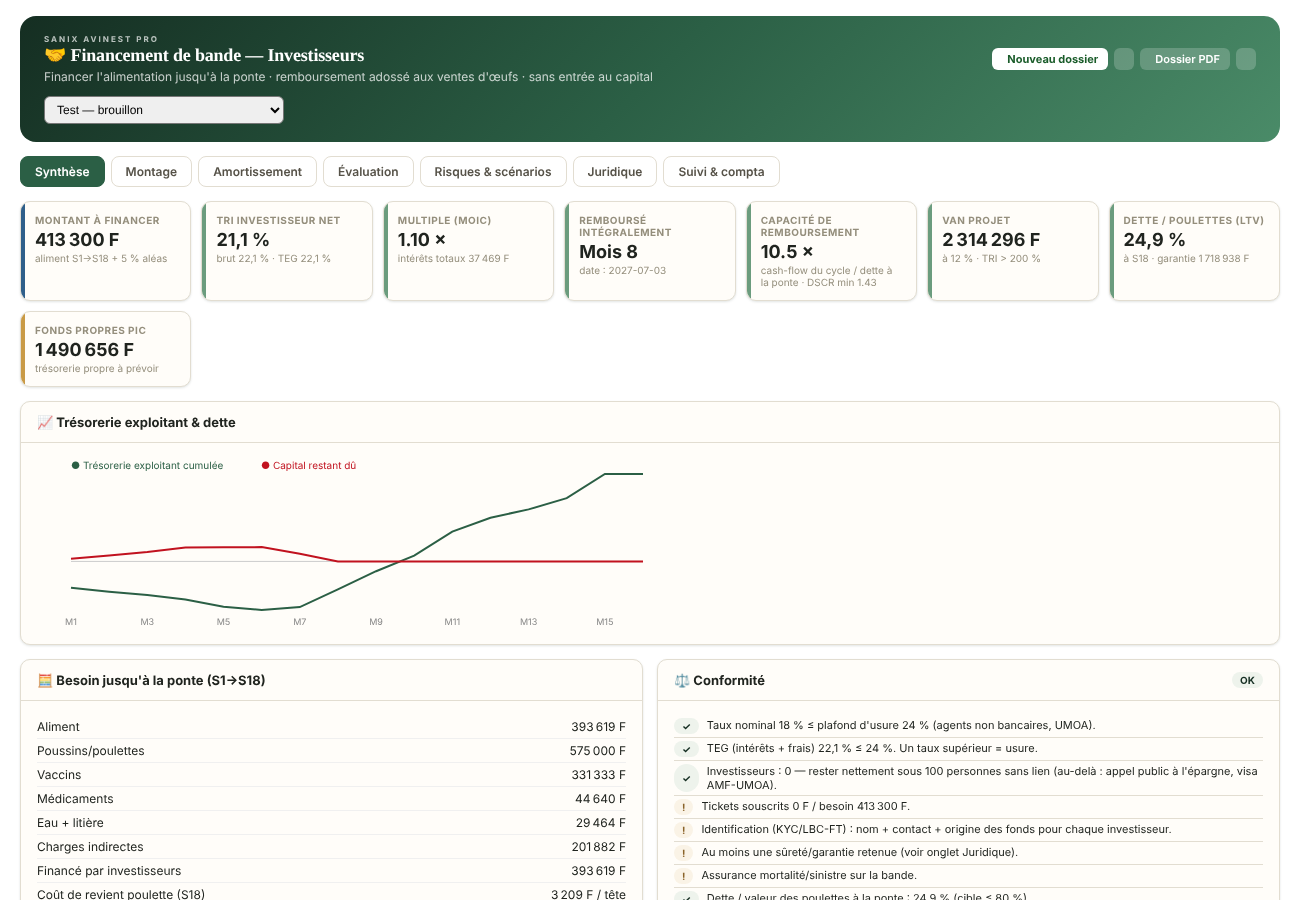
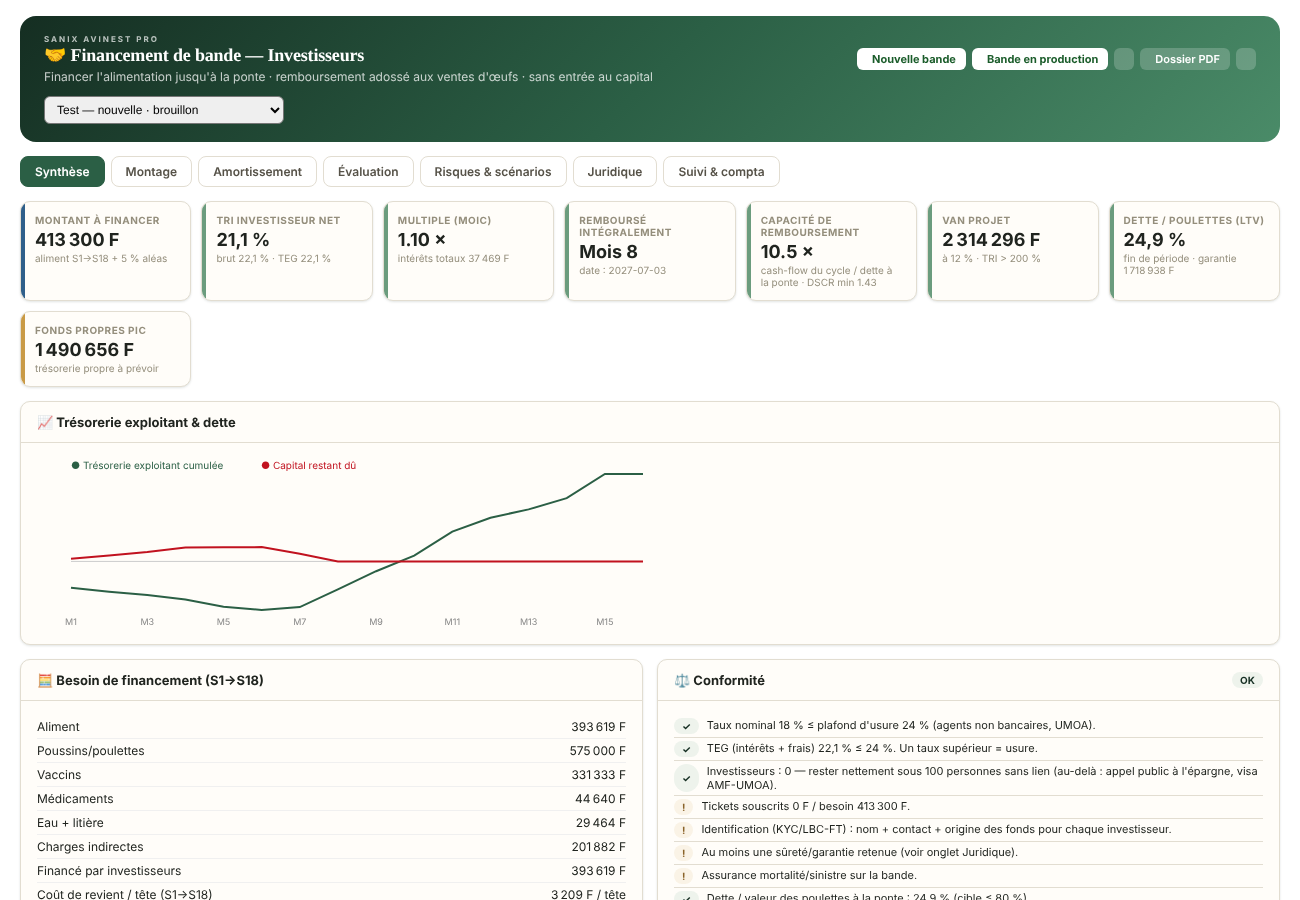
feat(finbande): financement d'une bande en production + poulet de chair (#11)
* feat(finbande): module Financement de bande par investisseurs (amortissement, évaluation, risques, juridique, compta SYSCOHADA) + besoin de financement dans la Simulation

Claude-Session: https://claude.ai/code/session_01XGyegJwan1hozCysUqiur2

* fix(finbande): collision de nom finTab avec le module Finance (onglets inopérants)

Claude-Session: https://claude.ai/code/session_01XGyegJwan1hozCysUqiur2

* feat(simu): poulette 1150 F et casse 1,5 % (calibrage ferme-jolan)

Claude-Session: https://claude.ai/code/session_01XGyegJwan1hozCysUqiur2

* feat(finance): répartition persistée des ventes sans lot par lot pondeuse (prorata œufs sur 10 j avant livraison), annulable

Claude-Session: https://claude.ai/code/session_01XGyegJwan1hozCysUqiur2

* feat(finbande): financement d'une bande en production (lot réel) + type chair

Portée nouvelle bande / bande en production, pondeuses ou poulet de chair.
Bande en production : projection recalée sur le lot réel (âge, effectif vivant,
ponte et consommation sur 30 j). Noms de dossiers numérotés.

Claude-Session: https://claude.ai/code/session_01XGyegJwan1hozCysUqiur2

---------

diff --git a/index.html b/index.html
@@ -24597,7 +24597,7 @@ const FIN_SEUIL_APE = 100;           // APE : > 100 personnes sans lien juridiqu
 
 const FIN_DEFAULTS = {
   nom:'Financement bande pondeuses', lotId:null, statut:'brouillon',
-  dateDebut:'', semPonte:18, inclPoussin:false, inclVacc:false, inclMed:false, inclEau:false,
+  portee:'nouvelle', typeLot:'layer', reel:null, dateDebut:'', semPonte:18, inclPoussin:false, inclVacc:false, inclMed:false, inclEau:false,
   contingence:5, fraisDossierPct:1, montantManuel:0,
   taux:18, mode:'ponte', sweepPct:70, differeMois:6, dureeRemb:8, interetDiffere:'capitalise', tirage:'progressif',
   tauxActu:12, delaiEncaiss:1, courbe:'lisse', prixPoulette:3500, retenuePct:18,
@@ -24678,20 +24678,35 @@ function finBesoin(p, f){
 function finRun(f, m){
   m=m||{};
   f=Object.assign({},FIN_DEFAULTS,f);
-  var p=Object.assign({},SIMU_DEFAULTS,f.simu||{},{typeLot:'layer'});
+  var typeLot=f.typeLot==='broiler'?'broiler':'layer';
+  var p0=Object.assign({},SIMU_DEFAULTS,f.simu||{},{typeLot:typeLot}), p=Object.assign({},p0);
   if(m.oeuf) p.prixOeufUnit*=m.oeuf;
   if(m.ponte) p.tauxPonteMoy=Math.min(98,p.tauxPonteMoy*m.ponte);
   if(m.alim){ p.coutAlimentD*=m.alim; p.coutAlimentC*=m.alim; p.coutAlimentP*=m.alim; }
   if(m.mort) p.tauxMortalite=Math.min(60,p.tauxMortalite*m.mort);
-  var wk=finWeekly(p,f.courbe), W=wk.W, lag=Math.max(0,f.delaiEncaiss|0), diff=Math.max(0,f.differeMois|0), N=Math.max(1,f.dureeRemb|0);
+  var wk=finWeekly(p,f.courbe), W=wk.W, lag=Math.max(0,f.delaiEncaiss|0), diff=Math.max(0,f.differeMois|0), N=Math.max(1,f.dureeRemb|0), warn=[];
+  if(f.portee==='production' && f.reel){
+    // Bande en production : on repart des semaines restantes, calées sur le lot réel (effectif vivant, ponte et consommation constatées).
+    // Calibrage mesuré sur les paramètres de base (sans stress) puis appliqué à la projection éventuellement stressée.
+    var R=f.reel, base0=finWeekly(p0,f.courbe).W, maxAge=W.length-1, age=Math.max(1,Math.min(maxAge,Math.round(R.age||1)));
+    if((R.age||0)>maxAge) warn.push('Lot au-delà du cycle modélisé (S'+W.length+') : projection limitée à la fin de cycle.');
+    var w0=base0[age-1], vSim=w0.vivants||1, r=R.vivants>0?R.vivants/vSim:1;
+    var mr=w0.vivants>0?w0.oeufs/(w0.vivants*7):0, kP=(typeLot==='layer'&&R.tauxPonte>0&&mr>0)?finClamp(R.tauxPonte/100/mr,0.5,1.3):1;
+    var ph0=simuGetPhases(typeLot).filter(function(x){return x.id===w0.ph;})[0], kA=(R.gPouleJour>0&&ph0&&ph0.feedGPD>0)?finClamp(R.gPouleJour/ph0.feedGPD,0.7,1.5):1;
+    if(R.tauxBrut>100) warn.push('Taux de ponte saisi > 100 % sur le lot (erreur de saisie probable) : plafonné.');
+    if(!(R.vivants>0)) warn.push('Effectif vivant du lot nul : actualisez les données du lot.');
+    W=W.slice(age).map(function(x){ return Object.assign({},x,{wr:x.w-age,vivants:x.vivants*r,alim:x.alim*r*kA,poussin:0,vacc:x.vacc*r,med:x.med*r,eau:x.eau*r,lit:0,oeufs:x.oeufs*r*kP,recOeufs:x.recOeufs*r*kP,recRef:x.recRef*r}); });
+    if(!W.length) W=[Object.assign({},base0[maxAge],{wr:1})];
+  } else W=W.map(function(x){ return Object.assign({},x,{wr:x.w}); });
   var T=Math.max(finMonth(W.length)+lag, diff+N)+1, t, i;
   var rev=[],opex=[],fin=[],tir=[];
   for(i=0;i<=T+1;i++){ rev[i]=0; opex[i]=0; fin[i]=0; tir[i]=0; }
-  var oeufsTot=0;
+  var oeufsTot=0, det={alim:0,poussin:0,vacc:0,med:0,eau:0,indir:0}, coutFut=0;
   W.forEach(function(x){
-    var mi=finMonth(x.w);
+    var mi=finMonth(x.wr); coutFut+=x.alim+x.poussin+x.vacc+x.med+x.eau+x.lit+x.indir;
     opex[mi]+=x.alim+x.poussin+x.vacc+x.med+x.eau+x.lit+x.indir;
-    if(x.w<=f.semPonte) fin[mi]+=x.alim+(f.inclPoussin?x.poussin:0)+(f.inclVacc?x.vacc:0)+(f.inclMed?x.med:0)+(f.inclEau?x.eau+x.lit:0);
+    if(x.wr<=f.semPonte){ det.alim+=x.alim; det.poussin+=x.poussin; det.vacc+=x.vacc; det.med+=x.med; det.eau+=x.eau+x.lit; det.indir+=x.indir; }
+    if(x.wr<=f.semPonte) fin[mi]+=x.alim+(f.inclPoussin?x.poussin:0)+(f.inclVacc?x.vacc:0)+(f.inclMed?x.med:0)+(f.inclEau?x.eau+x.lit:0);
     rev[mi+lag]+=x.recOeufs+x.recRef; oeufsTot+=x.oeufs;
   });
   var base=fin.reduce(function(a,b){return a+b;},0);
@@ -24751,14 +24766,14 @@ function finRun(f, m){
   var fullMonth=null; rows.forEach(function(r){ if(!r.diff&&r.close===0&&r.open+r.tir>0&&fullMonth===null) fullMonth=r.t; });
   var mP=finMonth(f.semPonte), debtAtPonte=rows[Math.min(mP,rows.length)-1].close;
   var wP=W[Math.min(f.semPonte,W.length)-1], valPoulettes=wP.vivants*f.prixPoulette;
-  var coutPre=0; W.forEach(function(x){ if(x.w<=f.semPonte) coutPre+=x.alim+x.poussin+x.vacc+x.med+x.eau+x.lit+x.indir; });
+  var coutPre=0; W.forEach(function(x){ if(x.wr<=f.semPonte) coutPre+=x.alim+x.poussin+x.vacc+x.med+x.eau+x.lit+x.indir; });
   return {p:p, W:W, res:wk.res, rows:rows, T:T, base:base, montant:montant, frais:frais, tirTotal:out, intTot:intTot,
     npv:npv, irrProj:finAnn(irrP), payback:payback, pi:pvOut>0?pvIn/pvOut:null, peakInvest:-minCu,
     irrInvB:finAnn(irrB), irrInvN:finAnn(irrN), moic:out>0?inN/out:null, moicB:out>0?inB/out:null, teg:finAnn(tegM),
     dscrMin:dscrMin, dscrAvg:dscrAvg, cov:cov, capac:capac, dStart:dStart, fullMonth:fullMonth, soldeFin:soldeFin, minCash:minCash, cashFin:cum,
     ltv:valPoulettes>0?debtAtPonte/valPoulettes:null, debtAtPonte:debtAtPonte, valPoulettes:valPoulettes,
-    coutPoulette:wP.vivants>0?coutPre/wP.vivants:0, oeufsTot:oeufsTot, coutOeuf:oeufsTot>0?wk.res.totalCout/oeufsTot:0,
-    margeOeuf:oeufsTot>0?wk.res.margeNette/oeufsTot:0, ivN:ivN, ivB:ivB};
+    coutPoulette:wP.vivants>0?coutPre/wP.vivants:0, oeufsTot:oeufsTot, coutOeuf:oeufsTot>0?(f.portee==='production'?coutFut:wk.res.totalCout)/oeufsTot:0,
+    margeOeuf:oeufsTot>0?p.prixOeufUnit*(1-(p.tauxCasse||0)/100)-(f.portee==='production'?coutFut:wk.res.totalCout)/oeufsTot:0, det:det, warn:warn, typeLot:typeLot, ivN:ivN, ivB:ivB};
 }
 
 const FIN_SCEN = {
@@ -24818,7 +24833,7 @@ function finContrat(f, E, cfg){
     degressif:'par échéances mensuelles à capital constant',annuite:'par annuités mensuelles constantes',infine:'in fine, intérêts payés mensuellement'}[f.mode];
   return [
     ['Parties','Entre '+ex+' ('+fj+', RCCM '+rc+'), ci-après « l\'Exploitant », et '+inv+', ci-après « le(s) Prêteur(s) », il est convenu ce qui suit.'],
-    ['Objet','Financement partiel de la bande « '+(f.nom||'')+' » : prise en charge de l\'alimentation des volailles du placement jusqu\'à la semaine S'+f.semPonte+' (démarrage de la ponte). Aucune entrée au capital ; aucun droit de vote ni de partage de résultat hors rémunération prévue.'],
+    ['Objet',finObjet(f,E)+' Aucune entrée au capital ; aucun droit de vote ni de partage de résultat hors rémunération prévue.'],
     ['Montant & mise à disposition','Montant maximal : '+finM(E.montant)+', mis à disposition '+(f.tirage==='unique'?'en une fois à la signature':'par tirages mensuels correspondant aux besoins en aliment')+'. Frais de dossier : '+f.fraisDossierPct+' %.'],
     ['Affectation des fonds','Exclusivement à l\'achat d\'aliments pour la bande financée. Justificatifs (factures, bons de réception) communiqués sur demande ; le suivi est consultable dans l\'ERP.'],
     ['Durée','Différé de '+f.differeMois+' mois (intérêts '+(f.interetDiffere==='paye'?'payés':'capitalisés')+'), puis remboursement sur '+f.dureeRemb+' mois maximum.'],
@@ -24840,7 +24855,7 @@ async function finLoad(){
   var list=await getAll(S.FINBANDE); list.sort(function(a,b){return (b.id||0)-(a.id||0);});
   var B=window._fb||(window._fb={id:null,tab:'synthese'});
   var rec=list.find(function(x){return x.id===B.id;})||list[0]||null;
-  B.id=rec?rec.id:null; B.rec=rec; B.list=list;
+  B.id=rec?rec.id:null; B.rec=rec; B.list=list; B.lots=await getAll(S.FLOCKS);
   return rec;
 }
 async function finSave(rec){ await updRec(S.FINBANDE,rec.id,rec); }
@@ -24851,13 +24866,52 @@ window.finSetG=async function(k,v){ var r=window._fb.rec; r.garanties=r.garantie
 window.finSetSimu=async function(k,v){ var r=window._fb.rec; r.simu=r.simu||{}; r.simu[k]=parseFloat(v)||0; await finSave(r); finRefresh(); };
 window.fbTab=function(t){ window._fb.tab=t; finRefresh(); };
 window.finPick=function(id){ window._fb.id=parseInt(id)||null; window._fb.mc=null; finRefresh(); };
-window.finNew=async function(){
+// Valeurs usuelles selon portée + type (semPonte = dernière semaine financée, relative au départ du dossier)
+function finDefauts(portee,type){
+  if(portee==='production') return {semPonte:8,differeMois:0,dureeRemb:8,mode:'ponte',delaiEncaiss:1};
+  return type==='broiler'?{semPonte:6,differeMois:2,dureeRemb:2,mode:'infine',delaiEncaiss:1,prixPoulette:3000}:{semPonte:18,differeMois:6,dureeRemb:8,mode:'ponte',delaiEncaiss:1,prixPoulette:3500};
+}
+window.finNew=async function(portee){
+  portee=portee==='production'?'production':'nouvelle';
   var sp={}; try{ sp=JSON.parse(localStorage.getItem('avico_simu_params')||'{}'); }catch(e){}
-  var simu=Object.assign({},SIMU_DEFAULTS,sp,{typeLot:'layer'});
-  var rec=Object.assign({},JSON.parse(JSON.stringify(FIN_DEFAULTS)),{dateDebut:new Date().toISOString().slice(0,10),simu:simu,ts:Date.now()});
+  var type=sp.typeLot==='broiler'?'broiler':'layer';
+  var simu=Object.assign({},SIMU_DEFAULTS,sp,{typeLot:type});
+  var d=new Date().toISOString().slice(0,10), n=((window._fb&&window._fb.list)||[]).length+1;
+  var rec=Object.assign({},JSON.parse(JSON.stringify(FIN_DEFAULTS)),finDefauts(portee,type),{portee:portee,typeLot:type,dateDebut:d,simu:simu,ts:Date.now(),
+    nom:(portee==='production'?'Bande en production':'Nouvelle bande')+' n°'+n+' — '+d});
   var nom=prompt('Nom du dossier de financement :',rec.nom); if(nom===null) return; rec.nom=nom||rec.nom;
-  rec.id=await addRec(S.FINBANDE,rec); window._fb={id:rec.id,tab:'montage'}; finRefresh(); toast('✅ Dossier créé depuis la simulation');
+  rec.id=await addRec(S.FINBANDE,rec); window._fb={id:rec.id,tab:'montage'}; finRefresh(); toast('✅ Dossier créé'+(portee==='production'?' — choisissez le lot réel':' depuis la simulation'));
 };
+window.finSetPortee=async function(v){ var r=window._fb.rec; r.portee=v; Object.assign(r,finDefauts(v,r.typeLot)); if(v==='nouvelle') r.reel=null; await finSave(r); finRefresh(); };
+window.finSetType=async function(v){ var r=window._fb.rec; r.typeLot=v; r.simu=Object.assign({},r.simu,{typeLot:v}); r.lotId=null; r.reel=null; Object.assign(r,finDefauts(r.portee,v)); await finSave(r); finRefresh(); };
+
+// Lecture du lot réel : âge, effectif vivant, taux de ponte et consommation sur 30 jours
+async function finLireLot(lotId){
+  var lots=await getAll(S.FLOCKS), lot=lots.find(function(l){return l.id===lotId;}); if(!lot) return null;
+  var all=await Promise.all([getAll(S.MORTALITE),getAll(S.REFORME),getAll(S.VENTE_VIVANT),getAll(S.SLAUGHTER),getAll(S.EGG_PROD),getAll(S.FEEDING)]);
+  var mine=function(a){return a.filter(function(x){return x.flockId===lotId;});}, sum=function(a,k){return a.reduce(function(t,x){return t+(x[k]||0);},0);};
+  var morts=sum(mine(all[0]),'nbMorts'), sorties=sum(mine(all[1]),'nbTetes')+sum(mine(all[2]),'nbTetes')+sum(mine(all[3]).filter(function(x){return !x.viaReforme;}),'nbAnimaux');
+  var vivants=Math.max(0,(lot.initialStock||0)-morts-sorties);
+  var age=lot.startDate?Math.max(1,Math.floor((Date.now()-new Date(lot.startDate).getTime())/604800000)+1):1;
+  var since=new Date(Date.now()-30*864e5).toISOString().slice(0,10);
+  var e30=mine(all[4]).filter(function(e){return (e.date||'')>=since;}), jE={}; e30.forEach(function(e){jE[e.date]=1;});
+  var jours=Object.keys(jE).length, tp=(jours&&vivants)?sum(e30,'eggCount')/jours/vivants*100:0;
+  var f30=mine(all[5]).filter(function(x){return (x.date||'')>=since;}), jF={}; f30.forEach(function(x){jF[x.date]=1;});
+  var jf=Object.keys(jF).length, g=(jf&&vivants)?sum(f30,'quantityKg')*1000/jf/vivants:0;
+  return {lotNom:lot.nom,age:age,vivants:vivants,initial:lot.initialStock||0,morts:morts,tauxBrut:Math.round(tp*10)/10,tauxPonte:Math.min(98,Math.round(tp*10)/10),gPouleJour:Math.round(g),ts:Date.now()};
+}
+window.finSetLot=async function(id){
+  var r=window._fb.rec; r.lotId=id?parseInt(id):null; r.reel=(r.lotId&&r.portee==='production')?await finLireLot(r.lotId):null;
+  await finSave(r); finRefresh();
+};
+window.finActualiserLot=async function(){ var r=window._fb.rec; if(!r.lotId) return; r.reel=await finLireLot(r.lotId); await finSave(r); finRefresh(); toast('Données du lot actualisées'); };
+function finPer(f){ return f.portee==='production'?'prochaines '+f.semPonte+' sem.':'S1→S'+f.semPonte; }
+function finObjet(f,E){
+  var q=f.typeLot==='broiler'?'poulets de chair':'pondeuses';
+  return f.portee==='production'
+    ?'Financement partiel de la bande « '+(f.nom||'')+' » en production ('+ff(E.p.nbBetes)+' '+q+' à l\'origine) : prise en charge de l\'alimentation sur les '+f.semPonte+' prochaines semaines.'
+    :'Financement partiel de la bande « '+(f.nom||'')+' » ('+q+') : prise en charge de l\'alimentation du placement jusqu\'à la semaine S'+f.semPonte+(f.typeLot==='broiler'?' (abattage).':' (démarrage de la ponte).');
+}
 window.finFromSimu=async function(){
   if(!window._fb) window._fb={id:null,tab:'synthese'};
   await finNew();
@@ -24943,41 +24997,60 @@ function finChart(E){
 
 function finTabSynthese(f,E){
   var okAll=E.soldeFin<=1&&(E.dscrMin==null||E.dscrMin>=1), conf=finConformite(f,E), nbKo=conf.filter(function(c){return c.s==='ko';}).length;
-  var b=finBesoin(E.p,f);
-  return '<div style="display:grid;grid-template-columns:repeat(auto-fit,minmax(150px,1fr));gap:10px;margin-bottom:14px">'
-    +finKpi('Montant à financer',finM(E.montant),'aliment S1→S'+f.semPonte+' + '+f.contingence+' % aléas','kpi-b')
+  var b={detail:E.det};
+  return (E.warn||[]).map(function(w){return '<div style="background:#fef3c7;border:1px solid #fcd34d;border-radius:8px;padding:7px 12px;font-size:12px;color:#92400e;margin-bottom:8px">⚠ '+esc(w)+'</div>';}).join('')
+    +'<div style="display:grid;grid-template-columns:repeat(auto-fit,minmax(150px,1fr));gap:10px;margin-bottom:14px">'
+    +finKpi('Montant à financer',finM(E.montant),'aliment '+finPer(f)+' + '+f.contingence+' % aléas','kpi-b')
     +finKpi('TRI investisseur net',finPc(E.irrInvN),'brut '+finPc(E.irrInvB)+' · TEG '+finPc(E.teg),(E.irrInvN||0)>0?'kpi-g':'kpi-r')
     +finKpi('Multiple (MOIC)',E.moic==null?'—':E.moic.toFixed(2)+' ×','intérêts totaux '+finM(E.intTot),'kpi-g')
     +finKpi('Remboursé intégralement',E.fullMonth?'Mois '+E.fullMonth:'Non',E.soldeFin>1?'solde impayé '+finM(E.soldeFin):'date : '+finAddMonths(f.dateDebut,E.fullMonth||0),okAll?'kpi-g':'kpi-r')
     +finKpi('Capacité de remboursement',E.capac==null?'—':E.capac.toFixed(1)+' ×','cash-flow du cycle / dette à la ponte · DSCR min '+(E.dscrMin==null?'—':E.dscrMin.toFixed(2)),(E.capac==null||E.capac>=1.5)?'kpi-g':'kpi-a')
     +finKpi('VAN projet',finM(E.npv),'à '+f.tauxActu+' % · TRI '+finPc(E.irrProj),E.npv>=0?'kpi-g':'kpi-r')
-    +finKpi('Dette / poulettes (LTV)',finPc(E.ltv),'à S'+f.semPonte+' · garantie '+finM(E.valPoulettes),(E.ltv||0)<=0.8?'kpi-g':'kpi-a')
+    +finKpi('Dette / poulettes (LTV)',finPc(E.ltv),'fin de période · garantie '+finM(E.valPoulettes),(E.ltv||0)<=0.8?'kpi-g':'kpi-a')
     +finKpi('Fonds propres pic',finM(-E.minCash),'trésorerie propre à prévoir','kpi-a')
     +'</div>'
     +'<div class="card" style="margin-bottom:14px"><div class="card-hd">📈 Trésorerie exploitant & dette</div><div class="card-bd">'+finChart(E)+'</div></div>'
-    +'<div style="display:grid;grid-template-columns:1fr 1fr;gap:14px"><div class="card"><div class="card-hd">🧮 Besoin jusqu\'à la ponte (S1→S'+f.semPonte+')</div><div class="card-bd" style="font-size:12px">'
+    +'<div style="display:grid;grid-template-columns:1fr 1fr;gap:14px"><div class="card"><div class="card-hd">🧮 Besoin de financement ('+finPer(f)+')</div><div class="card-bd" style="font-size:12px">'
     +[['Aliment',b.detail.alim],['Poussins/poulettes',b.detail.poussin],['Vaccins',b.detail.vacc],['Médicaments',b.detail.med],['Eau + litière',b.detail.eau],['Charges indirectes',b.detail.indir]].map(function(x){return '<div class="simu-detail-line"><span>'+x[0]+'</span><span>'+finM(x[1])+'</span></div>';}).join('')
-    +'<div class="simu-detail-line"><span>Financé par investisseurs</span><span>'+finM(E.base)+'</span></div><div class="simu-detail-line"><span>Coût de revient poulette (S'+f.semPonte+')</span><span>'+finM(E.coutPoulette)+' / tête</span></div></div></div>'
+    +'<div class="simu-detail-line"><span>Financé par investisseurs</span><span>'+finM(E.base)+'</span></div><div class="simu-detail-line"><span>Coût de revient / tête ('+finPer(f)+')</span><span>'+finM(E.coutPoulette)+' / tête</span></div></div></div>'
     +'<div class="card"><div class="card-hd">⚖ Conformité '+(nbKo?'<span class="badge b-r">'+nbKo+' bloquant(s)</span>':'<span class="badge b-g">OK</span>')+'</div><div class="card-bd" style="font-size:11px">'
     +conf.map(function(c){return '<div style="display:flex;gap:8px;padding:3px 0;border-bottom:1px solid var(--border)">'+finBadge(c.s)+'<span>'+c.t+'</span></div>';}).join('')+'</div></div></div>';
 }
 
+function finBlocLot(f){
+  if(f.portee!=='production') return '';
+  var lots=((window._fb&&window._fb.lots)||[]).filter(function(l){return (l.type==='layer')===(f.typeLot==='layer');}), R=f.reel;
+  return '<div class="card" style="margin-bottom:14px;border:2px solid var(--g3)"><div class="card-hd"><span>🔗 Lot réel financé</span>'+(f.lotId?'<button class="btn btn-s btn-sm" onclick="finActualiserLot()"><i class="fas fa-rotate"></i> Actualiser depuis le lot</button>':'')+'</div><div class="card-bd">'
+    +'<select onchange="finSetLot(this.value)"><option value="">— Choisir le lot —</option>'+lots.map(function(l){return '<option value="'+l.id+'"'+(l.id===f.lotId?' selected':'')+'>'+esc(l.nom)+'</option>';}).join('')+'</select>'
+    +(R?'<div style="display:grid;grid-template-columns:repeat(auto-fit,minmax(140px,1fr));gap:8px;margin-top:10px">'
+      +finKpi('Âge','S'+R.age,'lot « '+esc(R.lotNom)+' »')+finKpi('Effectif vivant',ff(R.vivants),'sur '+ff(R.initial)+' · morts '+ff(R.morts))
+      +(f.typeLot==='layer'?finKpi('Ponte réelle (30 j)',R.tauxBrut+' %',R.tauxBrut>100?'⚠ erreur de saisie':'taux utilisé : '+R.tauxPonte+' %',R.tauxBrut>100?'kpi-r':'kpi-g'):'')
+      +finKpi('Aliment réel',R.gPouleJour+' g/j','par sujet (30 j)')+'</div><div style="font-size:11px;color:var(--text3);margin-top:6px">La projection repart de ces valeurs réelles (effectif, ponte, consommation). Actualisé le '+new Date(R.ts).toLocaleString('fr-FR')+'.</div>'
+      :'<p style="font-size:12px;color:var(--text3);margin-top:8px">Sélectionnez le lot : le dossier est alors calé sur ses données réelles. Sans lot, la projection repart du début de cycle.</p>')
+    +'</div></div>';
+}
 function finTabMontage(f,E){
   var s=f.simu||{}, inv=f.investisseurs||[], tot=inv.reduce(function(a,i){return a+(+i.montant||0);},0);
   return '<div class="card" style="margin-bottom:14px"><div class="card-hd">🏷 Dossier</div><div class="simu-params-body">'
+    +finSel('Portée','portee',f.portee,[['nouvelle','Nouvelle bande'],['production','Bande déjà en production']]).replace("finSet('portee',this.value,0)","finSetPortee(this.value)")
+    +finSel('Type','typeLot',f.typeLot,[['layer','Pondeuses'],['broiler','Poulet de chair']]).replace("finSet('typeLot',this.value,0)","finSetType(this.value)")
     +'<div class="fg"><div class="sbl">Nom</div><input value="'+esc(f.nom)+'" onchange="finSet(\'nom\',this.value,0)"></div>'
     +'<div class="fg"><div class="sbl">Date de placement</div><input type="date" value="'+f.dateDebut+'" onchange="finSet(\'dateDebut\',this.value,0)"></div>'
     +finSel('Statut','statut',f.statut,[['brouillon','Brouillon'],['collecte','Collecte en cours'],['en_cours','En cours'],['solde','Soldé']])
     +'</div></div>'
+    +finBlocLot(f)
     +'<div class="card" style="margin-bottom:14px"><div class="card-hd">🐔 Hypothèses d\'exploitation (issues de la Simulation) <button class="btn btn-s btn-sm" onclick="finResync()"><i class="fas fa-rotate"></i> Resynchroniser</button></div><div class="simu-params-body">'
-    +finSimIn('Effectif logé','nbBetes',s.nbBetes)+finSimIn('Taux ponte pic (%)','tauxPonteMoy',s.tauxPonteMoy,0.5)+finSimIn('Mortalité cycle (%)','tauxMortalite',s.tauxMortalite,0.1)
-    +finSimIn('Prix œuf (F)','prixOeufUnit',s.prixOeufUnit)+finSimIn('Casse (%)','tauxCasse',s.tauxCasse==null?1.5:s.tauxCasse,0.1)+finSimIn('Poulette J0 (F)','coutPoussineLayer',s.coutPoussineLayer)
-    +finSimIn('Aliment démarrage (F/kg)','coutAlimentD',s.coutAlimentD)+finSimIn('Aliment croissance (F/kg)','coutAlimentC',s.coutAlimentC)+finSimIn('Aliment ponte (F/kg)','coutAlimentP',s.coutAlimentP)
-    +finSel('Courbe de ponte','courbe',f.courbe,[['lisse','Réaliste (lissée)'],['simu','Identique Simulation (paliers)']])
-    +finIn('Délai encaissement (mois)','delaiEncaiss',f.delaiEncaiss,1)+finIn('Valeur poulette prête à pondre (F)','prixPoulette',f.prixPoulette)
+    +finSimIn('Effectif logé','nbBetes',s.nbBetes)+finSimIn('Mortalité cycle (%)','tauxMortalite',s.tauxMortalite,0.1)
+    +(f.typeLot==='broiler'
+      ?finSimIn('Poussin chair (F)','coutPoussin',s.coutPoussin)+finSimIn('Poids vif abattage (kg)','poidsMoyenVif',s.poidsMoyenVif,0.05)+finSimIn('Rendement carcasse (%)','rendCarcasse',s.rendCarcasse,0.5)+finSimIn('Prix carcasse (F/kg)','prixCarcasseKg',s.prixCarcasseKg)
+        +finSimIn('Aliment démarrage (F/kg)','coutAlimentD',s.coutAlimentD)+finSimIn('Aliment croissance (F/kg)','coutAlimentC',s.coutAlimentC)
+      :finSimIn('Taux ponte pic (%)','tauxPonteMoy',s.tauxPonteMoy,0.5)+finSimIn('Prix œuf (F)','prixOeufUnit',s.prixOeufUnit)+finSimIn('Casse (%)','tauxCasse',s.tauxCasse==null?1.5:s.tauxCasse,0.1)+finSimIn('Poulette J0 (F)','coutPoussineLayer',s.coutPoussineLayer)
+        +finSimIn('Aliment démarrage (F/kg)','coutAlimentD',s.coutAlimentD)+finSimIn('Aliment croissance (F/kg)','coutAlimentC',s.coutAlimentC)+finSimIn('Aliment ponte (F/kg)','coutAlimentP',s.coutAlimentP)
+        +finSel('Courbe de ponte','courbe',f.courbe,[['lisse','Réaliste (lissée)'],['simu','Identique Simulation (paliers)']]))
+    +finIn('Délai encaissement (mois)','delaiEncaiss',f.delaiEncaiss,1)+finIn('Valeur de marché du cheptel (F/tête)','prixPoulette',f.prixPoulette)
     +'</div></div>'
     +'<div class="card" style="margin-bottom:14px"><div class="card-hd">💰 Périmètre financé</div><div class="simu-params-body">'
-    +finIn('Financé jusqu\'à la semaine (S)','semPonte',f.semPonte,1)+finIn('Aléas / contingence (%)','contingence',f.contingence,0.5)+finIn('Frais de dossier (%)','fraisDossierPct',f.fraisDossierPct,0.1)
+    +finIn(f.portee==='production'?'Horizon financé (semaines à venir)':(f.typeLot==='broiler'?'Financé jusqu\'à la semaine (abattage)':'Financé jusqu\'à la semaine (début ponte)'),'semPonte',f.semPonte,1)+finIn('Aléas / contingence (%)','contingence',f.contingence,0.5)+finIn('Frais de dossier (%)','fraisDossierPct',f.fraisDossierPct,0.1)
     +finIn('Montant forcé (F, 0 = auto)','montantManuel',f.montantManuel)
     +'<div style="grid-column:1/-1;display:flex;gap:14px;flex-wrap:wrap">'+'<span style="font-size:11px;color:var(--text3)">Aliment toujours inclus. Optionnel :</span>'
     +finChk('Poulettes J0','inclPoussin',f.inclPoussin,'finSetBool')+finChk('Vaccins','inclVacc',f.inclVacc,'finSetBool')+finChk('Médicaments','inclMed',f.inclMed,'finSetBool')+finChk('Eau + litière','inclEau',f.inclEau,'finSetBool')+'</div>'
@@ -25025,8 +25098,8 @@ function finTabEvaluation(f,E){
     +row('Fonds propres / trésorerie pic',finM(-E.minCash))+row('Trésorerie finale après dette',finM(E.cashFin))
     +row('Capacité de remboursement',E.capac==null?'—':E.capac.toFixed(2)+' ×','CF du cycle / dette au démarrage')+row('DSCR minimum',E.dscrMin==null?'—':E.dscrMin.toFixed(2))+row('DSCR moyen',E.dscrAvg==null?'—':E.dscrAvg.toFixed(2))+row('Couverture globale service',E.cov==null?'—':E.cov.toFixed(2)+' ×')+'</tbody></table></div></div>'
     +'<div class="card"><div class="card-hd">🛡 Garantie</div><div class="card-bd"><table class="tbl"><tbody>'
-    +row('Poulettes à S'+f.semPonte,ff(E.p.nbBetes)+' → '+ff(E.W[Math.min(f.semPonte,E.W.length)-1].vivants)+' sujets')+row('Coût de revient poulette',finM(E.coutPoulette))
-    +row('Valeur marché retenue',finM(f.prixPoulette)+' / tête')+row('Valeur du cheptel',finM(E.valPoulettes))+row('Dette à S'+f.semPonte,finM(E.debtAtPonte))+row('LTV',finPc(E.ltv),'cible ≤ 80 %')+'</tbody></table></div></div></div>';
+    +row('Effectif en fin de période',ff(E.p.nbBetes)+' → '+ff(E.W[Math.min(f.semPonte,E.W.length)-1].vivants)+' sujets')+row('Coût de revient / tête',finM(E.coutPoulette))
+    +row('Valeur de marché retenue',finM(f.prixPoulette)+' / tête')+row('Valeur du cheptel',finM(E.valPoulettes))+row('Dette en fin de période',finM(E.debtAtPonte))+row('LTV',finPc(E.ltv),'cible ≤ 80 %')+'</tbody></table></div></div></div>';
 }
 
 function finTabRisques(f,E){
@@ -25092,8 +25165,8 @@ async function finTabSuivi(f,E){
       +finKpi('Enveloppe financée',finM(bud),'consommée '+finPc(bud>0?c/bud:0))+'</div></div>';
   }
   var today=new Date().toISOString().slice(0,10), act=E.rows.filter(function(r){return r.tir>0||r.service>0||r.intCap>0||(r.frais>0);});
-  return '<div class="card" style="margin-bottom:14px"><div class="card-hd">🔗 Lot lié</div><div class="card-bd"><select onchange="finSet(\'lotId\',this.value?parseInt(this.value):null,0)"><option value="">— Aucun —</option>'
-    +lots.filter(function(l){return l.type==='layer';}).map(function(l){return '<option value="'+l.id+'"'+(l.id===f.lotId?' selected':'')+'>'+esc(l.nom)+'</option>';}).join('')+'</select></div></div>'+real
+  return '<div class="card" style="margin-bottom:14px"><div class="card-hd">🔗 Lot lié</div><div class="card-bd"><select onchange="finSetLot(this.value)"><option value="">— Aucun —</option>'
+    +lots.filter(function(l){return (l.type==='layer')===(f.typeLot!=='broiler');}).map(function(l){return '<option value="'+l.id+'"'+(l.id===f.lotId?' selected':'')+'>'+esc(l.nom)+'</option>';}).join('')+'</select></div></div>'+real
     +'<div class="card"><div class="card-hd">📒 Écritures SYSCOHADA par échéance</div><div class="card-bd tbl-wrap"><table class="tbl" style="font-size:11px"><thead><tr><th>Mois</th><th>Date</th><th>Fonds reçus</th><th>Intérêts</th><th>Capital</th><th>Retenue</th><th>Statut</th><th></th></tr></thead><tbody>'
     +act.map(function(r){ var s=(f.suivi||{})['m'+r.t], fut=r.date>today;
       return '<tr><td>'+r.t+'</td><td>'+r.date+'</td><td>'+(r.tir?ff(r.tir):'—')+'</td><td>'+ff(r.intPaid+r.intCap)+'</td><td>'+(r.cap?ff(r.cap):'—')+'</td><td>'+(r.intPaid?ff(r.intPaid*f.retenuePct/100):'—')+'</td><td>'+(s?'<span class="badge b-g">'+esc(s.piece)+'</span>':fut?'<span class="badge b-gr">à venir</span>':'<span class="badge b-a">à comptabiliser</span>')+'</td><td>'
@@ -25110,7 +25183,7 @@ window.finImprimer=async function(){
     +'<h1>'+esc(cfg.nomExploitation||'Exploitation')+' — Note d\'information investisseur</h1><div>'+esc(f.nom)+' · '+today+' · NIF '+esc(cfg.nif||'—')+' · RCCM '+esc(cfg.rccm||'—')+'</div>'
     +'<p style="background:#faf3e6;padding:6px 10px;border-radius:6px">Document indicatif. Les projections reposent sur des hypothèses et ne garantissent aucun rendement. Tout investissement comporte un risque de perte en capital.</p>'
     +'<h2>1. Synthèse</h2><div class="k">'+kp.map(function(x){return '<div>'+x[0]+'<b>'+x[1]+'</b></div>';}).join('')+'</div>'
-    +'<h2>2. Objet & usage des fonds</h2><p>Financement de l\'alimentation de '+ff(E.p.nbBetes)+' pondeuses du placement à la semaine S'+f.semPonte+' (démarrage de la ponte). Remboursement à partir des ventes d\'œufs ('+ff(E.p.prixOeufUnit)+' F/œuf, ponte pic '+E.p.tauxPonteMoy+' %, mortalité '+E.p.tauxMortalite+' %).</p>'
+    +'<h2>2. Objet & usage des fonds</h2><p>'+esc(finObjet(f,E))+' Remboursement à partir des ventes ('+(f.typeLot==='broiler'?'carcasses : '+ff(E.p.prixCarcasseKg)+' F/kg':'œufs : '+ff(E.p.prixOeufUnit)+' F/œuf, ponte pic '+E.p.tauxPonteMoy+' %')+', mortalité '+E.p.tauxMortalite+' %).</p>'
     +'<h2>3. Tableau d\'amortissement</h2><table><thead><tr><th>Mois</th><th>Échéance</th><th>Solde début</th><th>Tirage</th><th>Intérêts</th><th>Int. payés</th><th>Capital</th><th>Service</th><th>Solde fin</th></tr></thead><tbody>'+rowsH+'</tbody></table>'
     +'<h2>4. Conditions contractuelles (modèle)</h2>'+cl.map(function(c,i){return '<p><b>Art. '+(i+1)+' — '+c[0]+'.</b> '+esc(c[1])+'</p>';}).join('')
     +'<h2>5. Signatures</h2><p>Fait à ____________, le ____________ en __ exemplaires.</p><table><tr><td style="height:70px;text-align:left">L\'Exploitant</td><td style="text-align:left">Le(s) Prêteur(s) (« lu et approuvé »)</td></tr></table>'
@@ -25123,10 +25196,10 @@ async function renderFinBande(ca){
   var rec=await finLoad(), B=window._fb, cfg=await getExploitationSettings();
   var style='<style>.fb-wrap{flex:1;overflow-y:auto;padding:16px 20px}.fb-hero{background:linear-gradient(135deg,#152e22,#2b5f45,#4a8b68);color:#fff;border-radius:16px;padding:18px 24px;margin-bottom:14px}.fb-hero h2{font-size:18px;font-weight:800;margin:0 0 3px}.fb-hero p{font-size:12px;opacity:.75;margin:0}.fb-tabs{display:flex;gap:6px;flex-wrap:wrap;margin-bottom:14px}.fb-tabs button{padding:7px 14px;border-radius:8px;border:1.5px solid var(--border);background:#fff;cursor:pointer;font-size:12px;font-weight:600;color:var(--text2);font-family:inherit}.fb-tabs button.active{background:var(--g2);color:#fff;border-color:var(--g2)}.fb-wrap .sbl{font-size:10px;font-weight:700;color:var(--text3);text-transform:uppercase;letter-spacing:.4px;margin-bottom:4px}.fb-wrap .simu-params-body{display:grid;grid-template-columns:repeat(auto-fill,minmax(180px,1fr));gap:10px;padding:14px 18px}.fb-wrap .simu-params-body input,.fb-wrap .simu-params-body select,.fb-wrap td input,.fb-wrap td select{border:1.5px solid var(--border);border-radius:7px;padding:6px 10px;font-size:13px;font-family:inherit;width:100%;box-sizing:border-box}.fb-wrap .simu-detail-line{display:flex;justify-content:space-between;font-size:12px;padding:4px 0;border-bottom:1px solid #f0f0f0}@media(max-width:700px){.fb-wrap{padding:10px}}</style>';
   var head='<div class="fb-hero"><div style="display:flex;justify-content:space-between;align-items:center;flex-wrap:wrap;gap:10px"><div><div style="font-size:8px;font-weight:700;letter-spacing:2px;opacity:.7">SANIX AVINEST PRO</div><h2>🤝 Financement de bande — Investisseurs</h2><p>Financer l\'alimentation jusqu\'à la ponte · remboursement adossé aux ventes d\'œufs · sans entrée au capital</p></div>'
-    +'<div style="display:flex;gap:6px;flex-wrap:wrap"><button class="btn btn-sm" style="background:#fff;color:#1a5c2a;font-weight:700" onclick="finNew()"><i class="fas fa-plus"></i> Nouveau dossier</button>'+(rec?'<button class="btn btn-sm" style="background:rgba(255,255,255,.2);color:#fff;border:none" onclick="finDup()"><i class="fas fa-copy"></i></button><button class="btn btn-sm" style="background:rgba(255,255,255,.2);color:#fff;border:none" onclick="finImprimer()"><i class="fas fa-print"></i> Dossier PDF</button><button class="btn btn-sm" style="background:rgba(255,255,255,.2);color:#fff;border:none" onclick="finDel()"><i class="fas fa-trash"></i></button>':'')+'</div></div>'
-    +(rec?'<div style="margin-top:12px"><select style="border-radius:6px;padding:5px 8px;font-size:12px;min-width:240px" onchange="finPick(this.value)">'+B.list.map(function(x){return '<option value="'+x.id+'"'+(x.id===rec.id?' selected':'')+'>'+esc(x.nom)+' — '+esc(x.statut||'brouillon')+'</option>';}).join('')+'</select></div>':'')+'</div>';
+    +'<div style="display:flex;gap:6px;flex-wrap:wrap"><button class="btn btn-sm" style="background:#fff;color:#1a5c2a;font-weight:700" onclick="finNew(\'nouvelle\')"><i class="fas fa-plus"></i> Nouvelle bande</button><button class="btn btn-sm" style="background:#fff;color:#1a5c2a;font-weight:700" onclick="finNew(\'production\')"><i class="fas fa-egg"></i> Bande en production</button>'+(rec?'<button class="btn btn-sm" style="background:rgba(255,255,255,.2);color:#fff;border:none" onclick="finDup()"><i class="fas fa-copy"></i></button><button class="btn btn-sm" style="background:rgba(255,255,255,.2);color:#fff;border:none" onclick="finImprimer()"><i class="fas fa-print"></i> Dossier PDF</button><button class="btn btn-sm" style="background:rgba(255,255,255,.2);color:#fff;border:none" onclick="finDel()"><i class="fas fa-trash"></i></button>':'')+'</div></div>'
+    +(rec?'<div style="margin-top:12px"><select style="border-radius:6px;padding:5px 8px;font-size:12px;min-width:240px" onchange="finPick(this.value)">'+B.list.map(function(x){return '<option value="'+x.id+'"'+(x.id===rec.id?' selected':'')+'>'+esc(x.nom)+' — '+(x.portee==='production'?'en production':'nouvelle')+' · '+esc(x.statut||'brouillon')+'</option>';}).join('')+'</select></div>':'')+'</div>';
   if(!rec){
-    ca.innerHTML=style+'<div class="fb-wrap">'+head+'<div class="card"><div class="card-bd" style="text-align:center;padding:36px;color:var(--text3)"><i class="fas fa-handshake" style="font-size:42px;opacity:.3"></i><p style="margin:12px 0">Aucun dossier. Le premier est créé à partir de la Simulation de Déploiement de Bande (pondeuses).</p><button class="btn btn-p" onclick="finNew()"><i class="fas fa-plus"></i> Créer depuis la simulation</button></div></div></div>';
+    ca.innerHTML=style+'<div class="fb-wrap">'+head+'<div class="card"><div class="card-bd" style="text-align:center;padding:36px;color:var(--text3)"><i class="fas fa-handshake" style="font-size:42px;opacity:.3"></i><p style="margin:12px 0">Aucun dossier. Le premier est créé à partir de la Simulation de Déploiement de Bande (pondeuses).</p><button class="btn btn-p" onclick="finNew(\'nouvelle\')"><i class="fas fa-plus"></i> Nouvelle bande (depuis la simulation)</button> <button class="btn btn-p" onclick="finNew(\'production\')"><i class="fas fa-egg"></i> Bande en production (lot réel)</button></div></div></div>';
     return;
   }
   if(!rec.dateDebut) rec.dateDebut=new Date().toISOString().slice(0,10);
